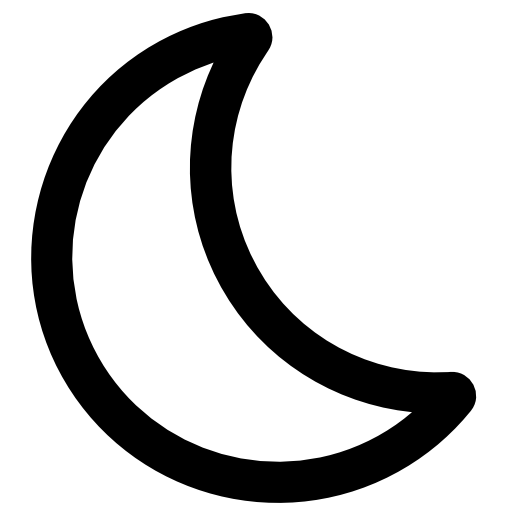
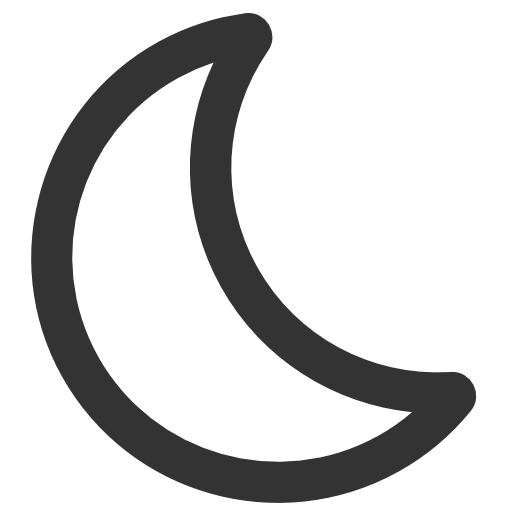
Made theme button smaller

Changed region(s): [[0.0625, 0.0, 0.9375, 1.0]]

diff --git a/src/components/Theme.vue b/src/components/Theme.vue
@@ -29,32 +29,32 @@ export default {
 }
 
 .Theme img {
-  height: 50px;
-  width: 50px;
-  padding: 20px;
+  height: 35px;
+  width: 35px;
+  padding: 15px;
 }
 
 @media screen and (min-width: 768px) {
   .Theme img {
-    height: 60px;
-    width: 60px;
-    padding: 25px;
+    height: 45px;
+    width: 45px;
+    padding: 20px;
   }
 }
 
 @media screen and (min-width: 1025px) {
   .Theme img {
-    height: 70px;
-    width: 70px;
-    padding: 30px;
+    height: 55px;
+    width: 55px;
+    padding: 25px;
   }
 }
 
 @media screen and (min-width: 1921px) {
   .Theme img {
-    height: 80px;
-    width: 80px;
-    padding: 35px;
+    height: 65px;
+    width: 65px;
+    padding: 30px;
   }
 }
 </style>
